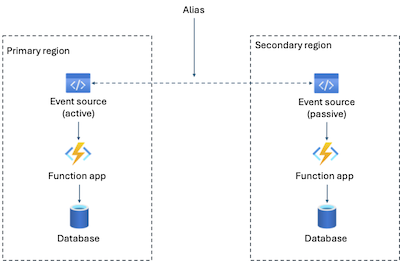
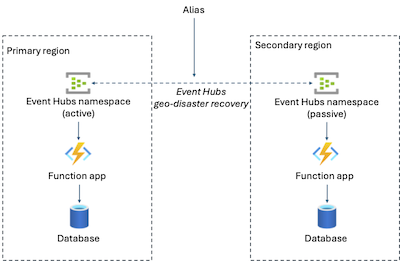
Updates

Changed region(s): [[0.69, 0.2759, 0.96, 0.4291], [0.36, 0.3372, 0.63, 0.4291], [0.06, 0.2759, 0.33, 0.4291]]

diff --git a/articles/reliability/reliability-functions.md b/articles/reliability/reliability-functions.md
@@ -352,42 +352,60 @@ You're responsible for:
 - Ensuring data consistency across regions (if applicable)
 - Monitoring and managing cross-region deployments
 
-When you run the same function code in multiple regions, there are two patterns to consider: active-active and active-passive.
+When you run the same function code in multiple regions, there are two commonly used patterns you can consider: active-active and active-passive. The following sections provide a brief introduction to these patterns, but don't provide detailed guidance or configuration steps.
 
 #### Active-active pattern for HTTP trigger functions
 
-With an active-active pattern, functions in both regions are actively running and processing events, either in a duplicate manner or in rotation. You should use an active-active pattern in combination with [Azure Front Door](/azure/frontdoor/front-door-overview) for your critical HTTP-triggered functions, which can route and round-robin HTTP requests between functions running in multiple regions. Front Door can also periodically check the health of each endpoint. When a function in one region stops responding to health checks, Azure Front Door takes it out of rotation and only forwards traffic to the remaining healthy functions.
+With an active-active pattern, functions in both regions are actively running and processing events, either in a duplicate manner or in rotation. You should use an active-active pattern in combination with [Azure Front Door](/azure/frontdoor/front-door-overview) for your critical HTTP-triggered functions, which can route and round-robin HTTP requests between functions running in multiple regions. Azure Front Door can also periodically check the health of each endpoint. If a function in one region stops responding to health checks, Azure Front Door takes it out of rotation and only forwards traffic to the remaining healthy functions.
 
 ![Architecture for Azure Front Door and Functions.](./media/reliability-functions/active-active.png)
 
 #### Active-passive pattern for non-HTTP trigger functions
 
-For event-driven, non-HTTP-triggered functions (such as Service Bus and Event Hubs triggered functions), use an active-passive pattern. With an active-passive pattern, functions run actively in the region that's receiving events, while the same functions in a second region remain idle. The active-passive pattern provides a way for only a single function to process each message while providing a mechanism to fail over to the secondary region in a disaster. Function apps work with the failover behaviors of the partner services, such as [Azure Service Bus geo-recovery](/azure/service-bus-messaging/service-bus-geo-dr) and [Azure Event Hubs geo-recovery](/azure/event-hubs/event-hubs-geo-dr).
+For event-driven, non-HTTP-triggered functions (such as Service Bus and Event Hubs triggered functions), use an active-passive pattern. With an active-passive pattern, functions run actively in the region that's receiving events, while the same functions in a second region remain idle. The active-passive pattern provides a way for only a single function to process each message, which is important for maintaining data consistency, while also providing a mechanism to fail over to the secondary region in a disaster like a region outage.
 
-Consider an example topology using an Azure Event Hubs trigger. In this case, the active-passive pattern requires the following components:
+Function app failover needs to be considered in conjunction with the failover behaviors of other services, such as:
+- [Azure Service Bus geo-replication and geo-disaster recovery](./reliability-service-bus.md#resilience-to-region-wide-failures)
+- [Azure Event Hubs geo-replication and geo-disaster recovery](./reliability-event-hubs.md#resilience-to-region-wide-failures)
+
+Consider an example topology using an Azure Event Hubs trigger, where your Event Hubs namespace is configured for geo-disaster recovery. In this case, the active-passive pattern requires the following components:
 
 - Azure Event Hubs deployed to both a primary and secondary region.
-- [Geo-disaster enabled](/azure/service-bus-messaging/service-bus-geo-dr) to pair the primary and secondary event hubs. This also creates an _alias_ you can use to connect to event hubs and switch from primary to secondary without changing the connection info.
+- [Geo-disaster recovery enabled](/azure/service-bus-messaging/service-bus-geo-dr) to pair the primary and secondary event hubs. This also creates an *alias* you can use to connect to the Event Hubs namespace, and switch from primary to secondary without changing the connection info.
 - Function apps deployed to both the primary and secondary (failover) region, with the app in the secondary region essentially being idle because messages aren't being sent there.
-- Function app triggers on the _direct_ (nonalias) connection string for its respective event hub.
-- Publishers to the event hub should publish to the alias connection string.
+- Function app triggers on the *direct* (nonalias) connection string for its respective Event Hubs namespace.
+- Publishers to the Event Hubs namespace should publish to the alias connection string.
 
 ![Active-passive example architecture.](./media/reliability-functions/active-passive.png)
 
-Before failover, publishers sending to the shared alias route to the primary event hub. The primary function app is listening exclusively to the primary event hub. The secondary function app is passive and idle. As soon as failover is initiated, publishers sending to the shared alias are routed to the secondary event hub. The secondary function app now becomes active and starts triggering automatically. Effective failover to a secondary region can be driven entirely from the event hub, with the functions becoming active only when the respective event hub is active.
+Before failover, publishers sending to the shared alias route to the primary event hub. The primary function app is listening exclusively to the primary event hub. The secondary function app is passive and idle.
 
-Read more on information and considerations for failover with [Service Bus](/azure/service-bus-messaging/service-bus-geo-dr) and [Event Hubs](/azure/event-hubs/event-hubs-geo-dr).
+As soon as failover is initiated, publishers sending to the shared alias are routed to the secondary event hub. The secondary function app now becomes active and starts triggering automatically. Effective failover to a secondary region can be driven entirely from the event hub, with the functions becoming active only when the respective event hub is active.
 
-For disaster recovery for Durable Functions, see [Disaster recovery and geo-distribution in Azure Durable Functions](/azure/azure-functions/durable/durable-functions-disaster-recovery-geo-distribution).
+#### Durable functions
+
+For multi-region disaster recovery for Durable Functions, see [Disaster recovery and geo-distribution in Azure Durable Functions](/azure/azure-functions/durable/durable-functions-disaster-recovery-geo-distribution).
 
 ## Resilience to service maintenance
 
 Azure Functions performs regular service upgrades and other maintenance tasks. To maintain your expected capacity during an upgrade, the platform automatically adds extra instances of the plan during the upgrade process.
 
-**Enable zone redundancy.** When you enable zone redundancy on your plan, you also improve resiliency during platform updates. *Update domains* consist of collections of VMs that go offline during an update, and they map to availability zones. Deploying multiple instances in your plan and enabling zone redundancy for your plan adds an extra layer of resiliency if an instance or zone becomes unhealthy during an upgrade.
+::: zone pivot="flex-consumption,premium,dedicated"
 
-> [!WARNING]
-> **Note to PG:** This section was copied from the App Service reliability guide. Is this accurate for Azure Functions, too? (We'll adjust to remove zone redundancy for consumption plan if so.)
+- **Enable zone redundancy:** When you enable zone redundancy on your plan, you also improve resiliency during platform updates. *Update domains* consist of collections of VMs that go offline during an update, and they map to availability zones. Deploying multiple instances in your plan and enabling zone redundancy for your plan adds an extra layer of resiliency if an instance or zone becomes unhealthy during an upgrade.
+
+    > [!WARNING]
+    > **Note to PG:** This section was copied from the App Service reliability guide. Is this accurate for Azure Functions, too? (We'll adjust to remove zone redundancy for consumption plan if so.)
+
+::: zone-end
+
+::: zone pivot="dedicated"
+
+- **App Service Environment:** If you host your function app on an App Service Environment, you can customize the upgrade cycle. If you need to validate the effect of upgrades on your workload, enable manual upgrades. This approach allows you to perform validation and testing on a nonproduction instance before applying them to your production instance.
+
+    For more information about maintenance preferences, see [Upgrade preferences for App Service Environment planned maintenance](/azure/app-service/environment/how-to-upgrade-preference).
+
+::: zone-end
 
 ## Resilience to application deployments
 
